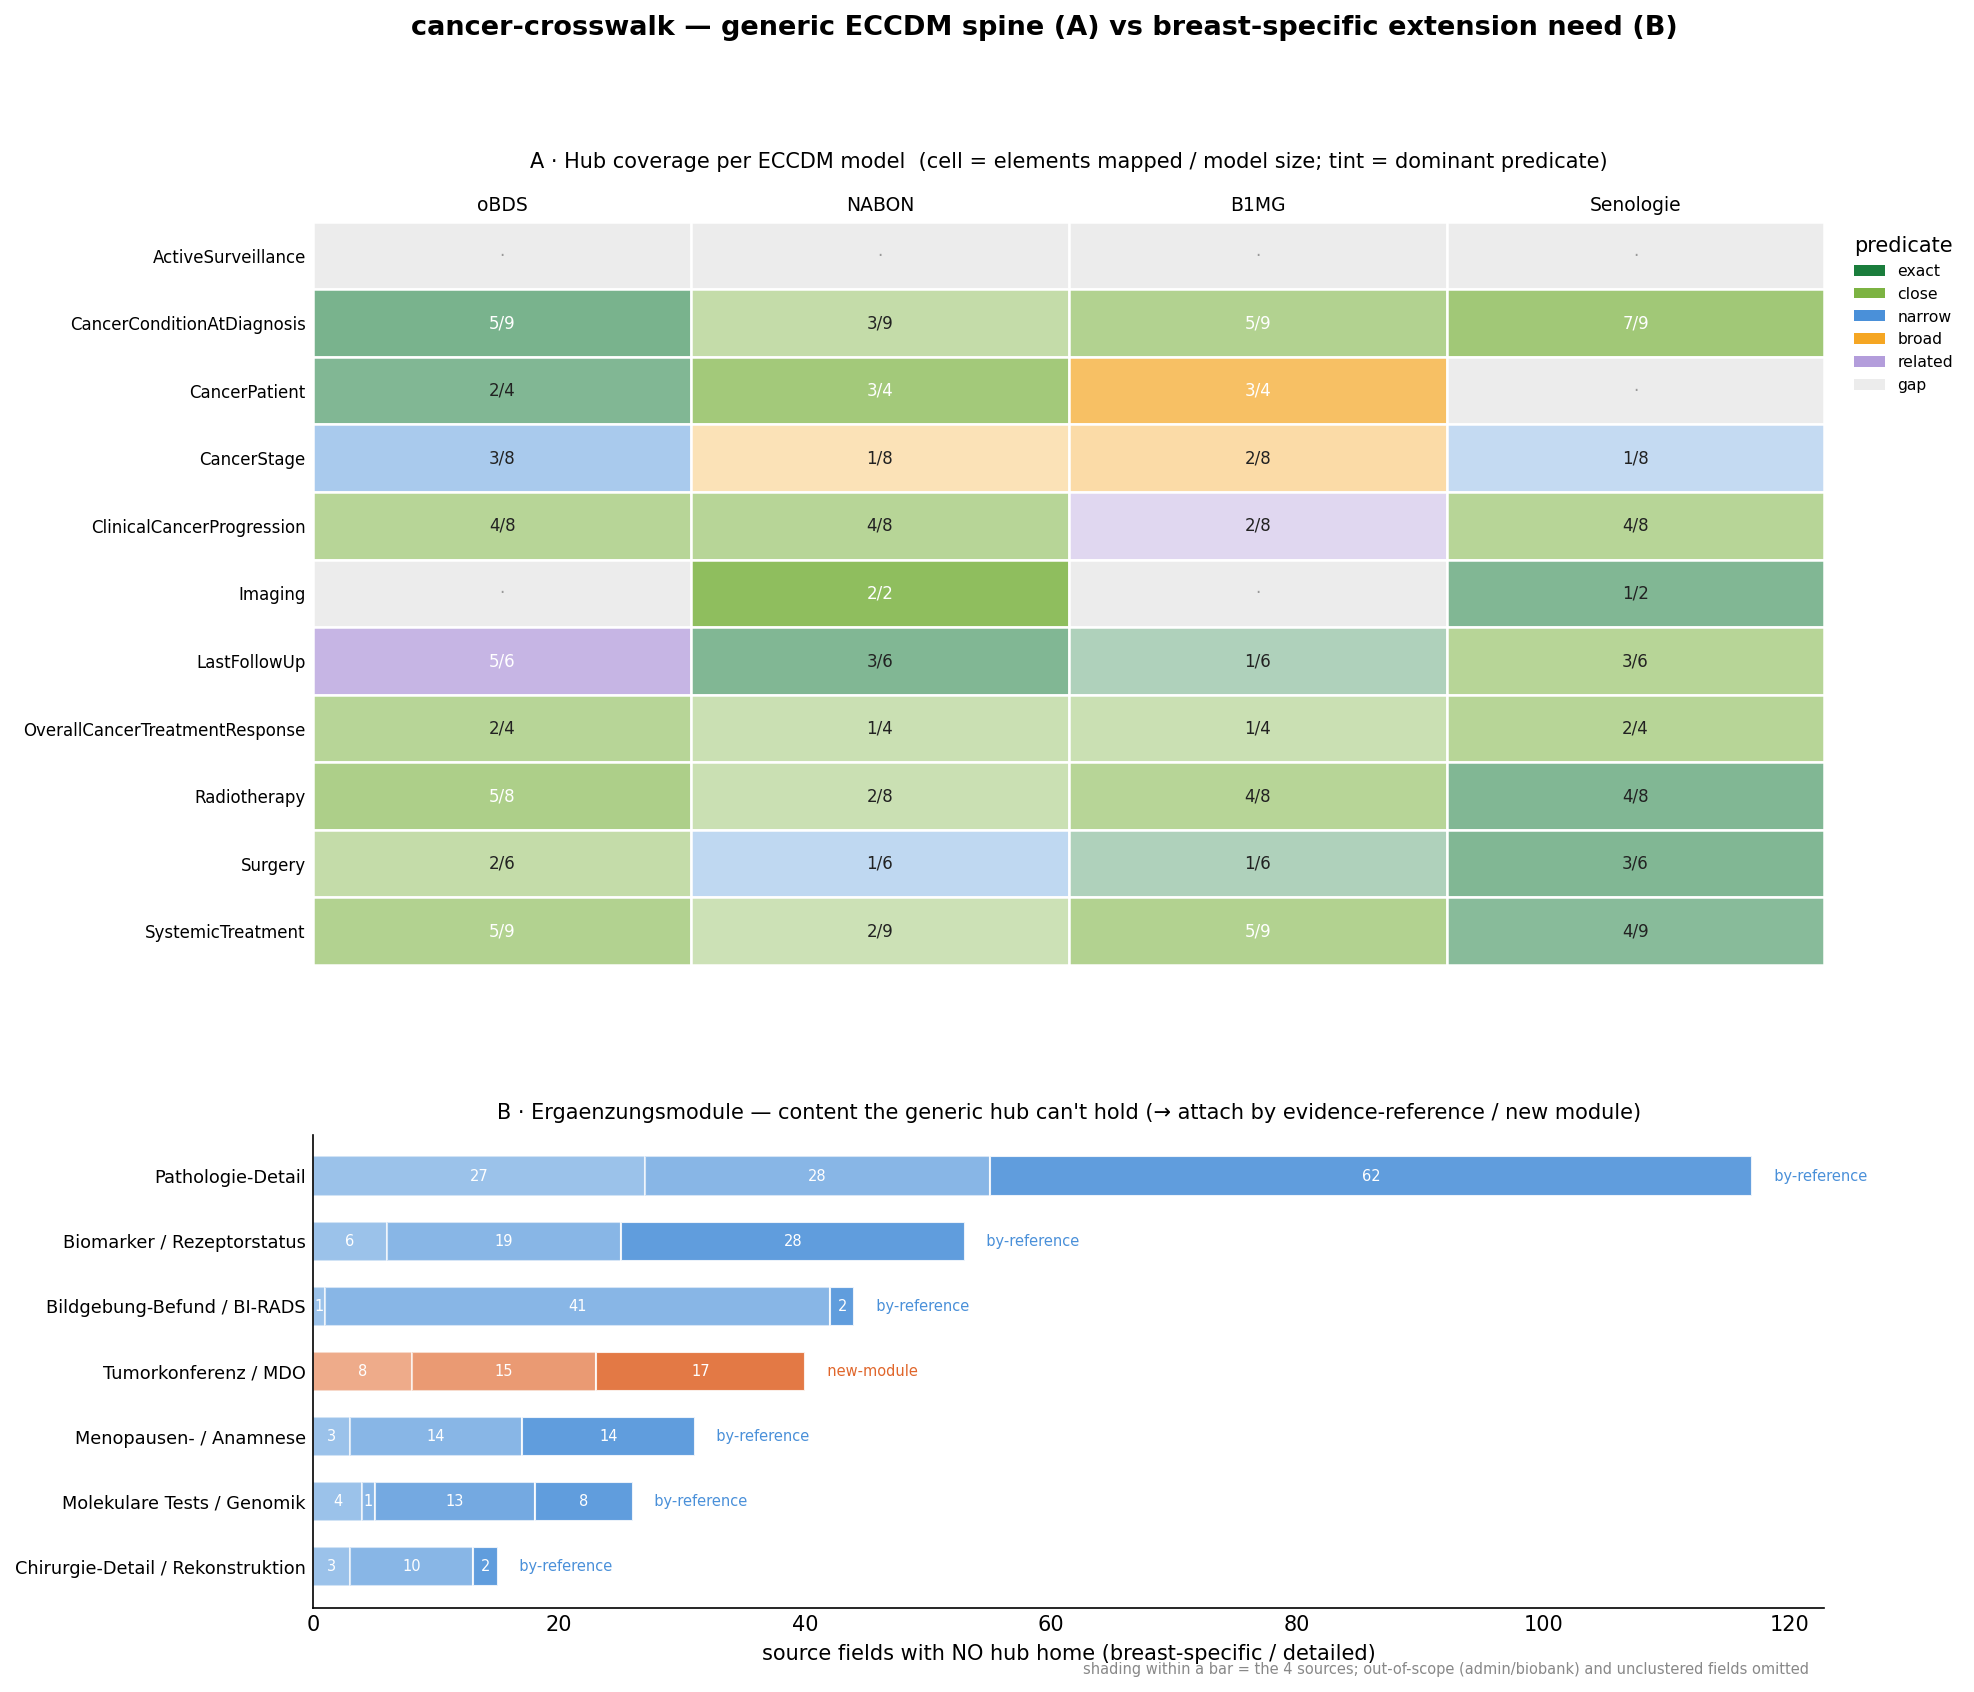
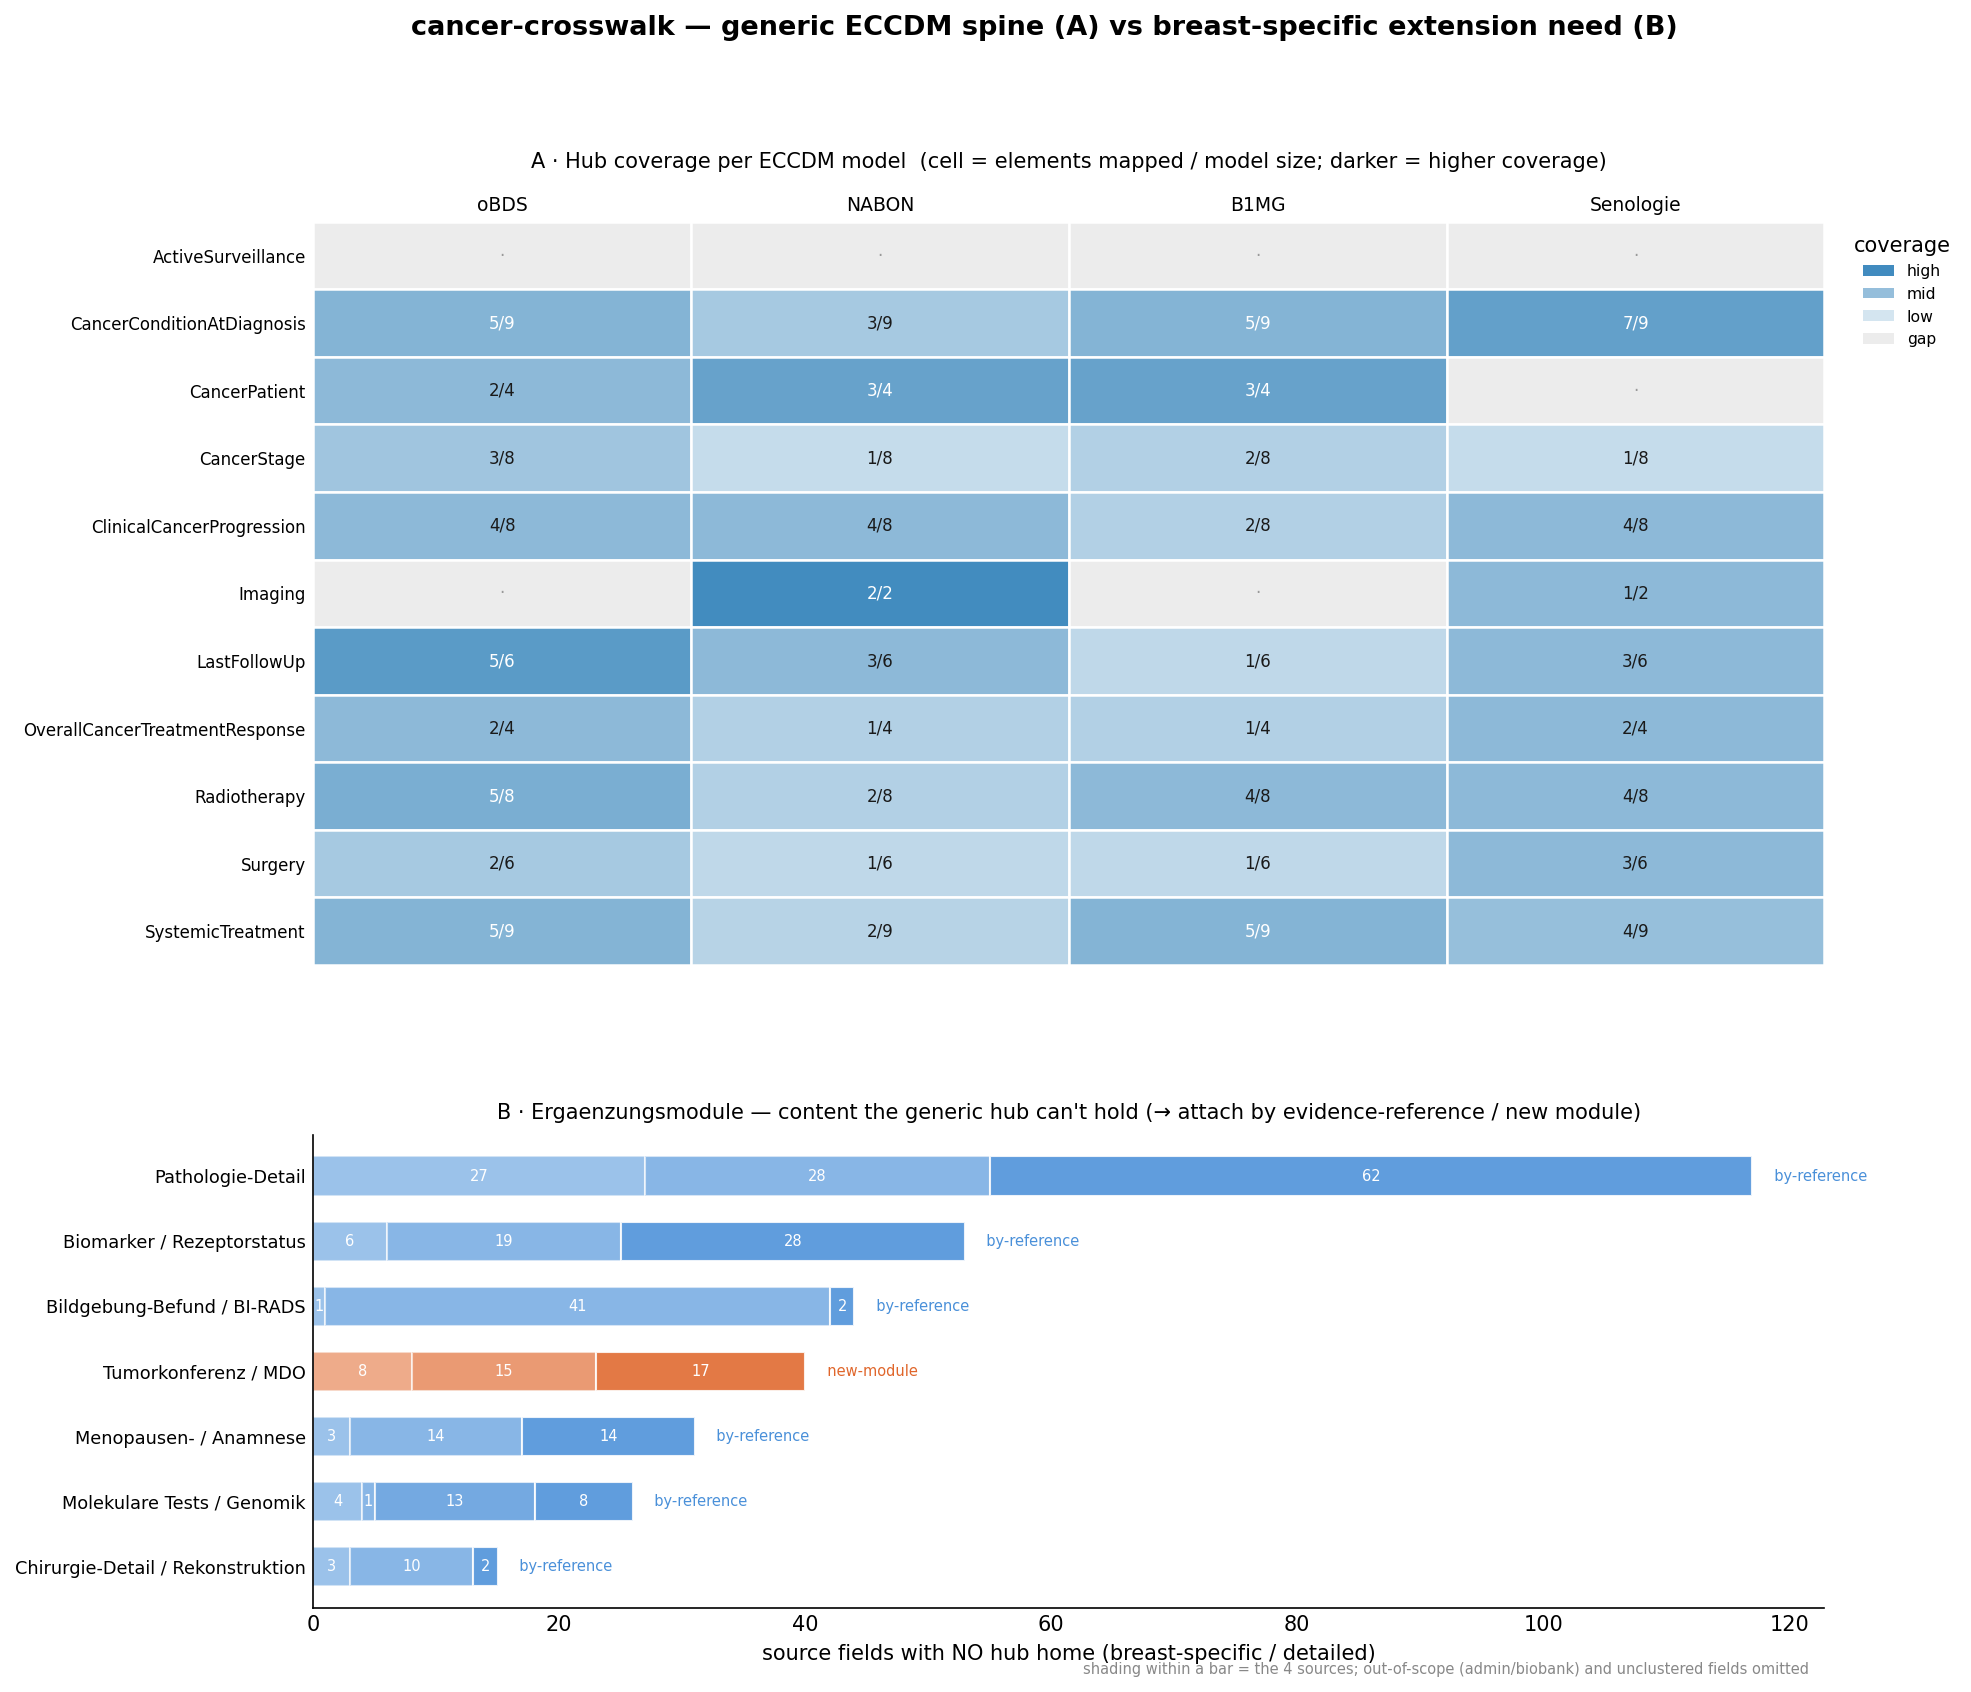
fix(viz): overview Panel A = single-hue coverage only (drop confusing predicate tint)
Aggregate cells collapsed many mappings' predicates into one arbitrary colour
(2:2 ties looked exact). Panel A now encodes coverage fraction only (one hue,
darker=more); predicate distribution lives in hub-spoke.png. One chart, one question.

diff --git a/scripts/overview.py b/scripts/overview.py
@@ -100,16 +100,15 @@ def main() -> int:
     # ---- Panel A: model x source coverage ----
     axA = fig.add_subplot(gs[0])
     nrows, ncols = len(models), len(srcs)
+    COVER_HUE = "#2c7fb8"   # single hue; intensity = coverage fraction only
     for i, model in enumerate(models):
         for j, src in enumerate(srcs):
             cov = covered[(model, src)]
             frac = len(cov) / size[model]
             if cov:
-                dom = preds[(model, src)].most_common(1)[0][0]
-                base = PRED.get(dom, "#888")
-                rgba = mcolors.to_rgba(base, alpha=0.25 + 0.6 * frac)
+                rgba = mcolors.to_rgba(COVER_HUE, alpha=0.18 + 0.72 * frac)
                 txt = f"{len(cov)}/{size[model]}"
-                tcol = "white" if frac > 0.5 else "#222"
+                tcol = "white" if frac > 0.55 else "#1a1a1a"
             else:
                 rgba = mcolors.to_rgba("#ececec", 1)
                 txt, tcol = "·", "#999"
@@ -127,11 +126,12 @@ def main() -> int:
     for sp in axA.spines.values():
         sp.set_visible(False)
     axA.set_title("A · Hub coverage per ECCDM model  (cell = elements mapped / "
-                  "model size; tint = dominant predicate)", fontsize=10, pad=26)
-    pred_legend = [Patch(facecolor=c, label=k.split(":")[1].replace("Match", ""))
-                   for k, c in PRED.items()] + [Patch(facecolor="#ececec", label="gap")]
-    axA.legend(handles=pred_legend, loc="upper left", bbox_to_anchor=(1.01, 1),
-               fontsize=7.5, frameon=False, title="predicate")
+                  "model size; darker = higher coverage)", fontsize=10, pad=26)
+    cov_legend = [Patch(facecolor=mcolors.to_rgba("#2c7fb8", a), label=lbl)
+                  for a, lbl in [(0.9, "high"), (0.5, "mid"), (0.2, "low")]] + \
+                 [Patch(facecolor="#ececec", label="gap")]
+    axA.legend(handles=cov_legend, loc="upper left", bbox_to_anchor=(1.01, 1),
+               fontsize=7.5, frameon=False, title="coverage")
 
     # ---- Panel B: Ergaenzungsmodule ----
     axB = fig.add_subplot(gs[1])
